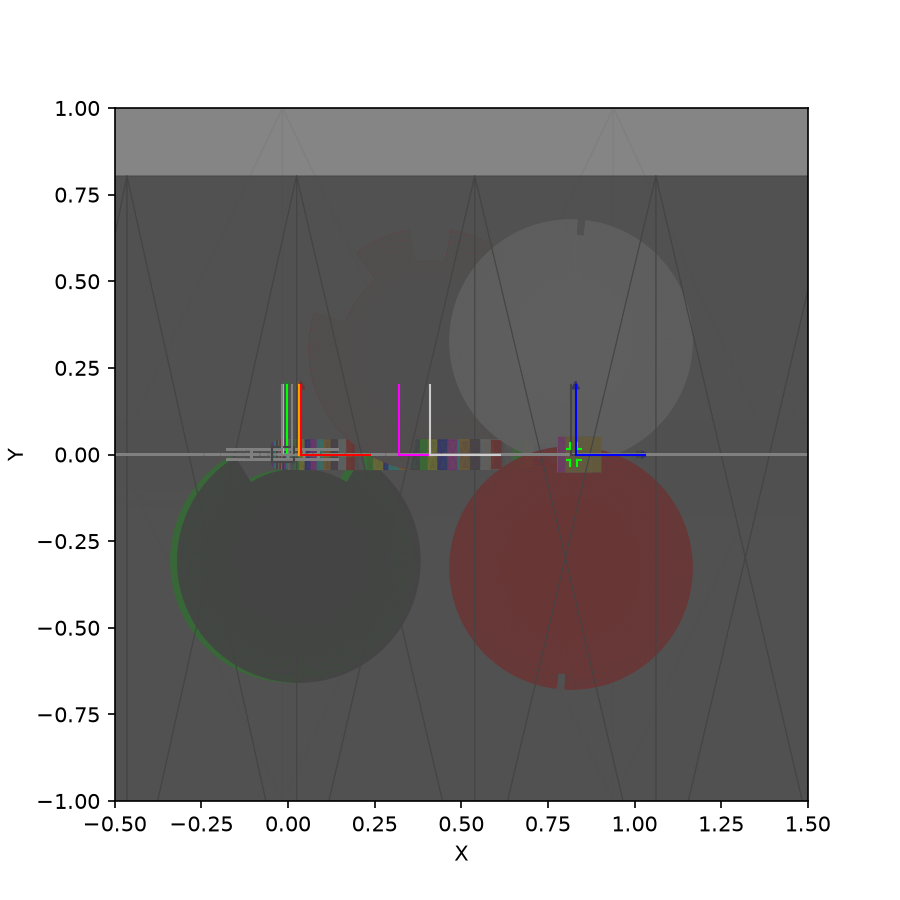
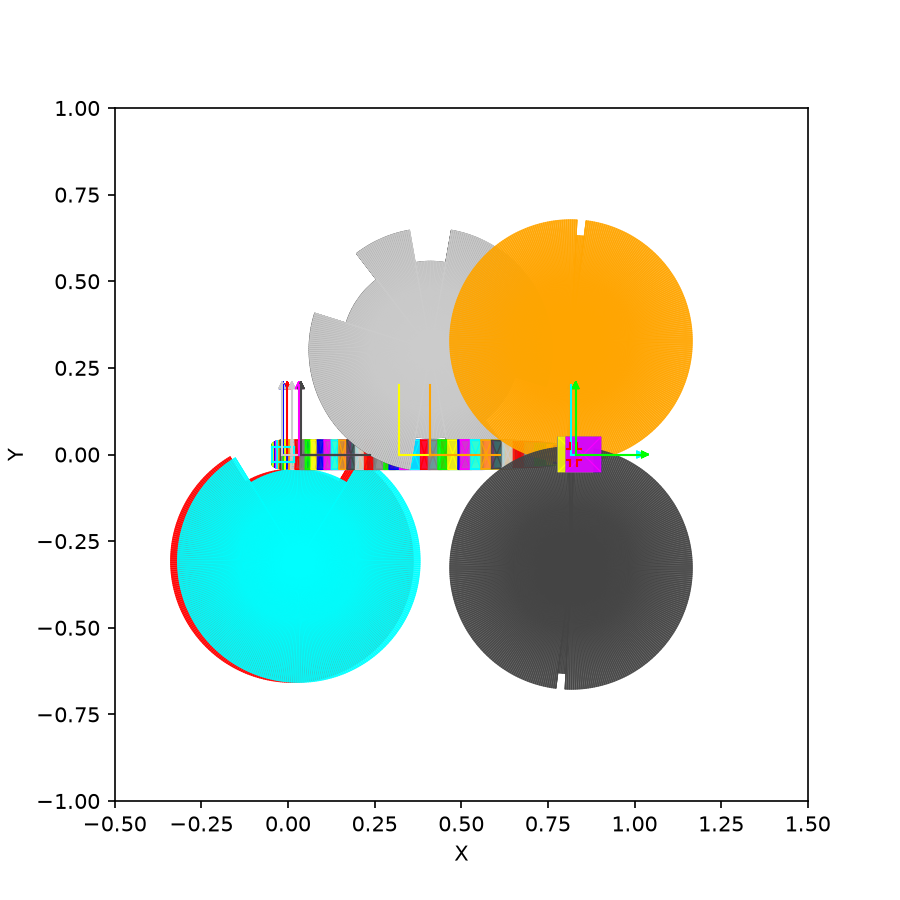
Leave the source and the banana detector out of the view along the beam
Seen along the beam they are wide disks and arcs that cover the guides
and the choppers; along_beam_range() gives show_instrument the components
from after the source to before the banana detector.

diff --git a/src/mcdgs/diagnostics/trex_00_overview.py b/src/mcdgs/diagnostics/trex_00_overview.py
@@ -7,7 +7,9 @@ mcdisplay:
 - ``trex_print.txt``: ``print(trex)``, the parameters and the position of every component;
 - ``TRex.instr``: the instrument file, written with its build files to ``mcstas_input/TRex/``;
 - ``overview_top.png``: the instrument seen from above, z along the beam and x across it;
-- ``overview_along_beam.png``: seen from the detector to the source, x across the beam and y up.
+- ``overview_along_beam.png``: seen from the detector to the source, x across the beam and y up,
+  with the components from after the source up to before the banana detector, which would
+  hide the rest.
 
 Both views have the same scale on their two axes. Run the module for them::
 
@@ -56,7 +58,30 @@ def write_printout(trex: TRex, folder: Path) -> Path:
     return path
 
 
-def draw_views(mcstas_instr: McStas_instr, folder: Path) -> list[Path]:
+def along_beam_range(trex: TRex) -> tuple[int, int]:
+    """Return the indices of the components the view along the beam draws.
+
+    The source and the banana detector are left out: seen along the beam they are wide disks
+    and arcs that cover the guides and the choppers.
+
+    Parameters
+    ----------
+    trex:
+        The instrument.
+
+    Returns
+    -------
+    :
+        The index of the first component after the source, and that of the banana detector,
+        the first one not drawn.
+    """
+    names = list(trex.components)
+    return names.index("source") + 1, names.index("banana_detector")
+
+
+def draw_views(
+    mcstas_instr: McStas_instr, folder: Path, along_beam_indices: tuple[int, int]
+) -> list[Path]:
     """Draw the instrument from above and along the beam, and save both figures.
 
     show_instrument returns None and has no aspect option, so the aspect is set on the axes it
@@ -68,6 +93,9 @@ def draw_views(mcstas_instr: McStas_instr, folder: Path) -> list[Path]:
         The McStasScript instrument.
     folder:
         Folder of the figures.
+    along_beam_indices:
+        Index of the first component the view along the beam draws, and of the first it does
+        not, as :func:`along_beam_range` gives them. The view from above draws them all.
 
     Returns
     -------
@@ -87,6 +115,8 @@ def draw_views(mcstas_instr: McStas_instr, folder: Path) -> list[Path]:
         mcstas_instr.show_instrument(
             backend="matplotlib_2d",
             projection="xy",
+            index_min=along_beam_indices[0],
+            index_max=along_beam_indices[1],
             limits=[-0.5, 1.5, -1, 1],
             width=600,
             height=600,
@@ -119,7 +149,11 @@ def main(out: Path | None = None) -> list[Path]:
     if folder.resolve() != input_dir.resolve():
         instr_file = Path(shutil.copyfile(instr_file, folder / instr_file.name))
     print(f"Written {instr_file}")
-    return [write_printout(trex, folder), instr_file, *draw_views(mcstas_instr, folder)]
+    return [
+        write_printout(trex, folder),
+        instr_file,
+        *draw_views(mcstas_instr, folder, along_beam_range(trex)),
+    ]
 
 
 if __name__ == "__main__":

diff --git a/tests/diagnostics/test_trex_overview.py b/tests/diagnostics/test_trex_overview.py
@@ -1,0 +1,11 @@
+from mcdgs.diagnostics.trex_00_overview import along_beam_range
+from mcdgs.instruments.trex.model import TRex
+
+
+def test_the_view_along_the_beam_leaves_out_the_source_and_the_banana_detector():
+    names = list(TRex().components)
+    first, stop = along_beam_range(TRex())
+    assert names[first - 1] == "source"
+    assert names[stop] == "banana_detector"
+    assert names[first:stop][0] == "arm_nboa"
+    assert names[first:stop][-1] == "beamstop"

diff --git a/docs/instruments/trex/index.md b/docs/instruments/trex/index.md
@@ -23,10 +23,11 @@ that run.
 
 ![T-Rex seen against the beam, x across it and y up](figures/overview_along_beam.png)
 
-x is across the beam and y up (projection `xy`), with every component drawn on top of each other
-and the view limited to x from −0.5 to 1.5 m and y from −1 to 1 m. The gray background is the
-drawing of the source. The guides are the narrow band at y = 0, running from x ≈ 0 at the source
-to x ≈ 0.83 m at the sample.
+x is across the beam and y up (projection `xy`), with the components drawn on top of each other
+and the view limited to x from −0.5 to 1.5 m and y from −1 to 1 m. It leaves out the source and
+the banana detector, which would cover the rest: it draws the components from `arm_nboa` to the
+beamstop. The guides are the narrow band at y = 0, running from x ≈ 0 near the source to
+x ≈ 0.83 m at the sample.
 
 The chopper disks are 0.7 m across, each to one side of the beam. The two disks of `bw1` and
 `bw2`, and of `ps1` and `ps2`, sit on the same side and overlap. `mc1` and `mc2` sit on
